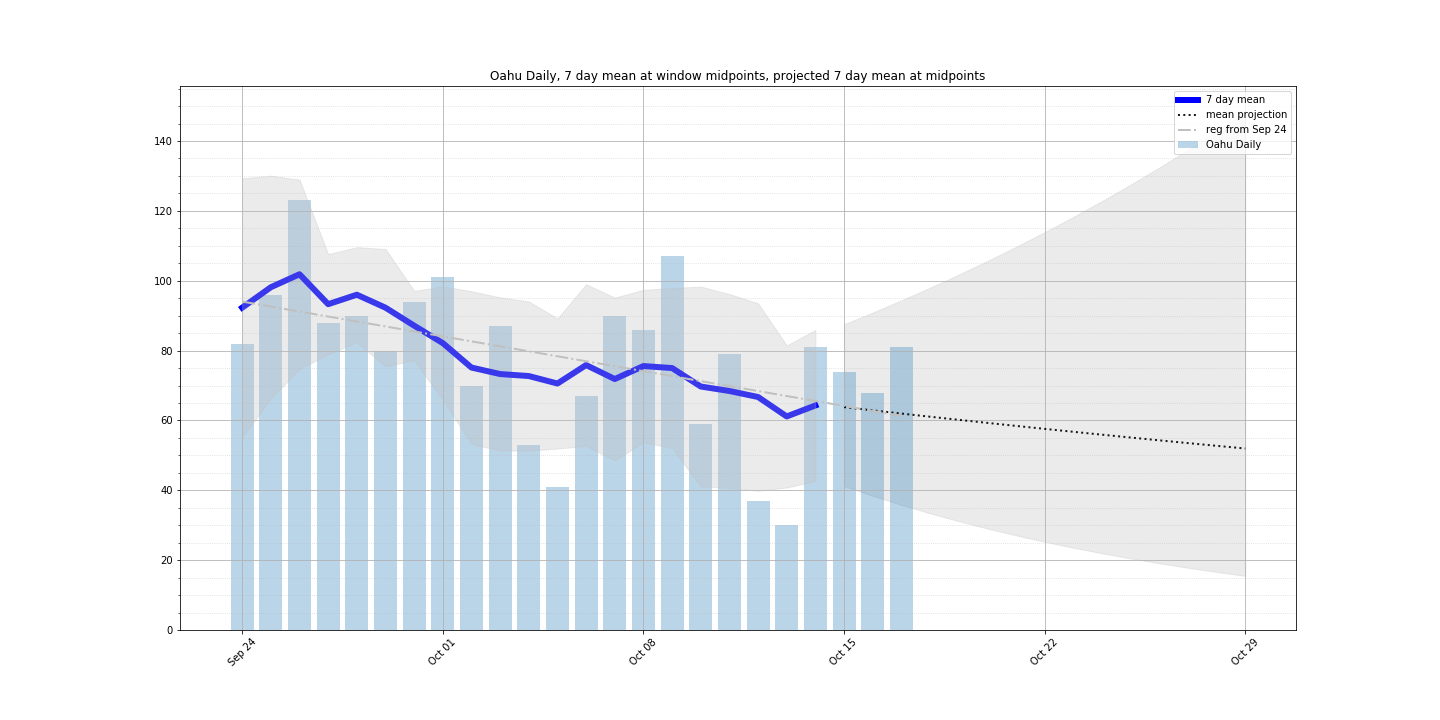
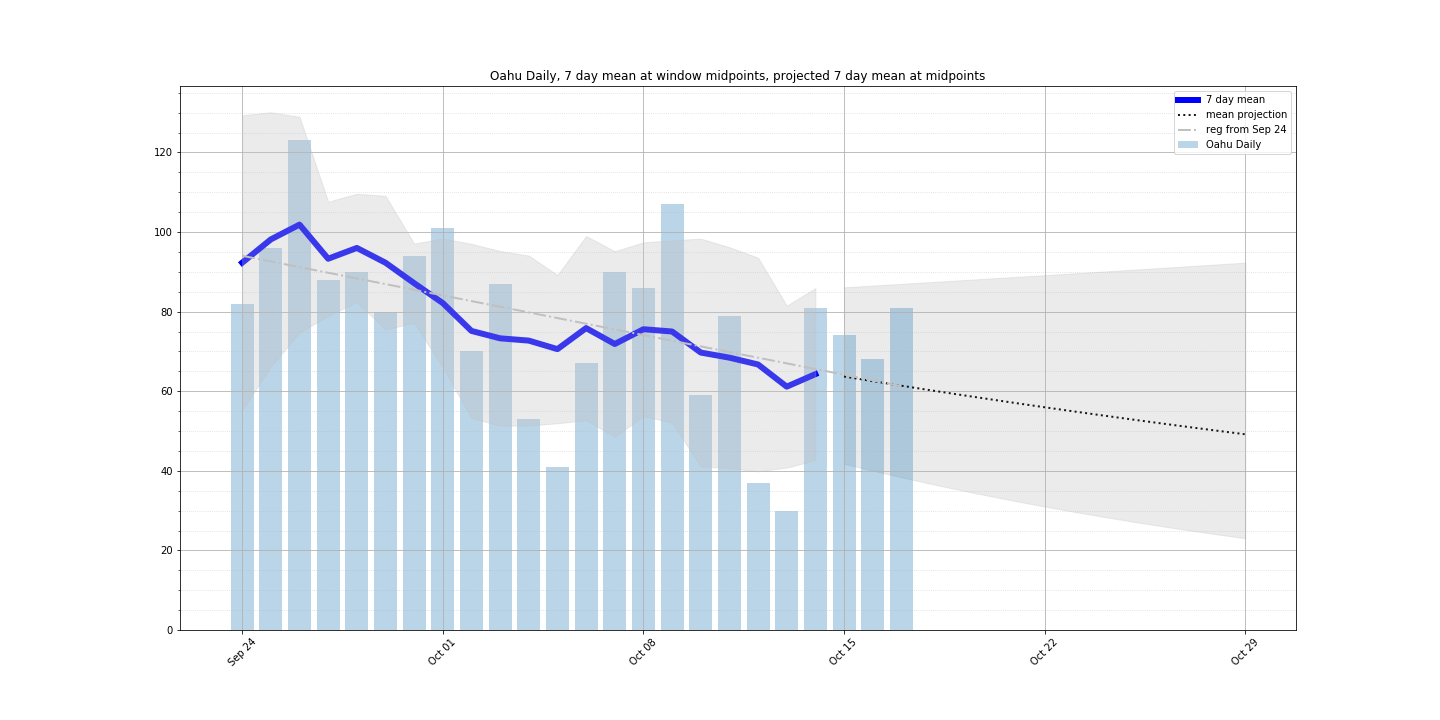
Add files via upload

diff --git a/index.html b/index.html
@@ -239,7 +239,7 @@
 		
 		<br><img class="center-fit" src="oahu_smoothed.png" alt="Oahu daily cases with smoothed average">
 		<br><img class="center-fit" src ="trend.png" alt="Oahu daily cases with 7 day mean and trend projection">
-		<p class="center-fit">The average rate over the last week is about 0.99, std = 0.05. I'm reasonably sure it does not have any predictive power at all.</p>
+		<p class="center-fit">The average rate over the last two weeks is about 0.98, std = 0.02. I'm reasonably sure it does not have any predictive power at all.</p>
 		<br><img class="center-fit" src="rfSignal.png" alt="Rising or Falling as percent of standard deviation and phase corrected">
 	</div>
 
